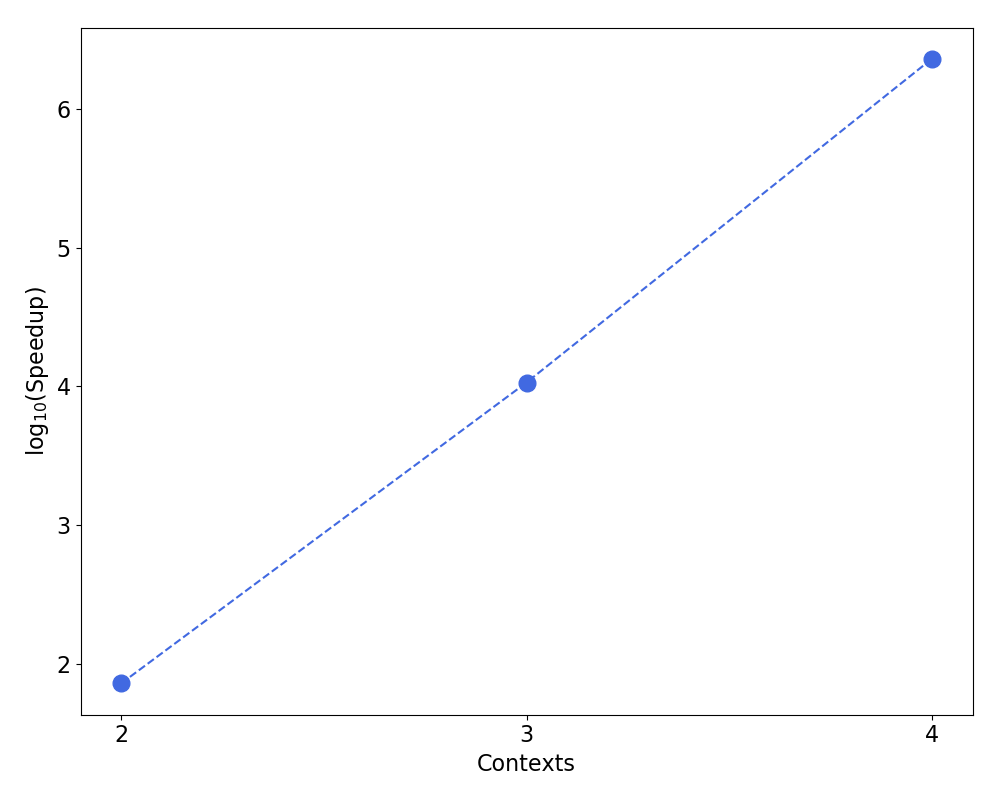
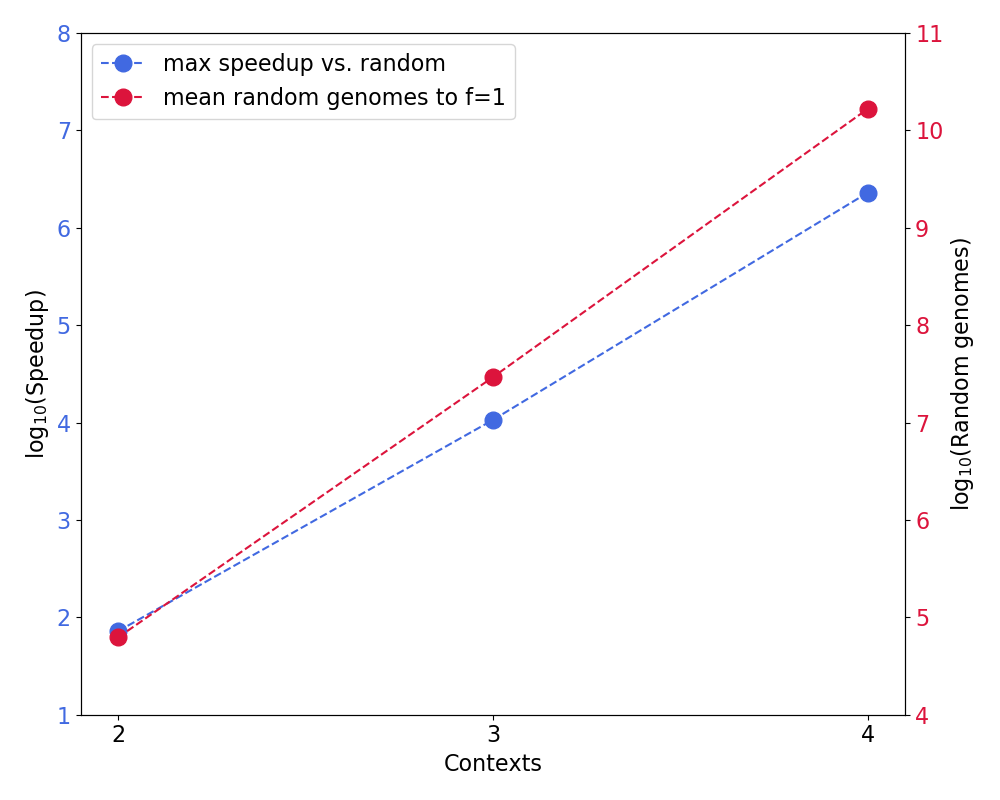
Adds two axes to speedup graph

diff --git a/plot/supp/speedup.py b/plot/supp/speedup.py
@@ -46,6 +46,7 @@ print ('c4randommean: {0}'.format(c4randommean))
 
 print ('min gens to evolve: {0}, {1}, {2} (c2, c3, c4)'.format(np.min(M2[:,2]),np.min(M3[:,2]),np.min(M4[:,2])))
 a1 = f1.add_subplot (1,1,1)
+a2 = a1.twinx()
 
 ctxt = np.array([2,3,4])
 speedup = np.array([0,0,0])
@@ -57,10 +58,14 @@ pmin2 = M2[np.where(np.min(M2[:,2]) == M2[:,2]),1][0][0]
 pmin3 = M3[np.where(np.min(M3[:,2]) == M3[:,2]),1][0][0]
 pmin4 = M4[np.where(np.min(M4[:,2]) == M4[:,2]),1][0][0]
 
-a1.plot(ctxt, np.log10(speedup), marker='o', linestyle='--', color=col.royalblue, markersize=12)
+lns1=a1.plot(ctxt, np.log10(speedup), marker='o', linestyle='--', color=col.royalblue, markersize=12, label='max speedup vs. random')
 
 rmean = np.array([c2randommean, c3randommean, c4randommean])
-a1.plot(ctxt, np.log10(rmean), marker='o', linestyle='--', color=col.crimson, markersize=12)
+lns2=a2.plot(ctxt, np.log10(rmean), marker='o', linestyle='--', color=col.crimson, markersize=12, label='mean random genomes to f=1')
+
+lns = lns1+lns2
+labs = [l.get_label() for l in lns]
+a1.legend(lns, labs, loc='upper left')
 
 addtext = False
 if addtext:
@@ -82,7 +87,14 @@ if addtext:
 
 a1.set_xlabel('Contexts')
 a1.set_ylabel('log$_{10}$(Speedup)')
+a2.set_ylabel('log$_{10}$(Random genomes)')
 a1.set_xticks([2,3,4])
+
+a1.set_ylim([1,8])
+a2.set_ylim([4,11])
+
+[i.set_color(col.royalblue) for i in a1.get_yticklabels()]
+[i.set_color(col.crimson) for i in a2.get_yticklabels()]
 
 f1.tight_layout()
 plt.savefig ('figures/speedup.png')
